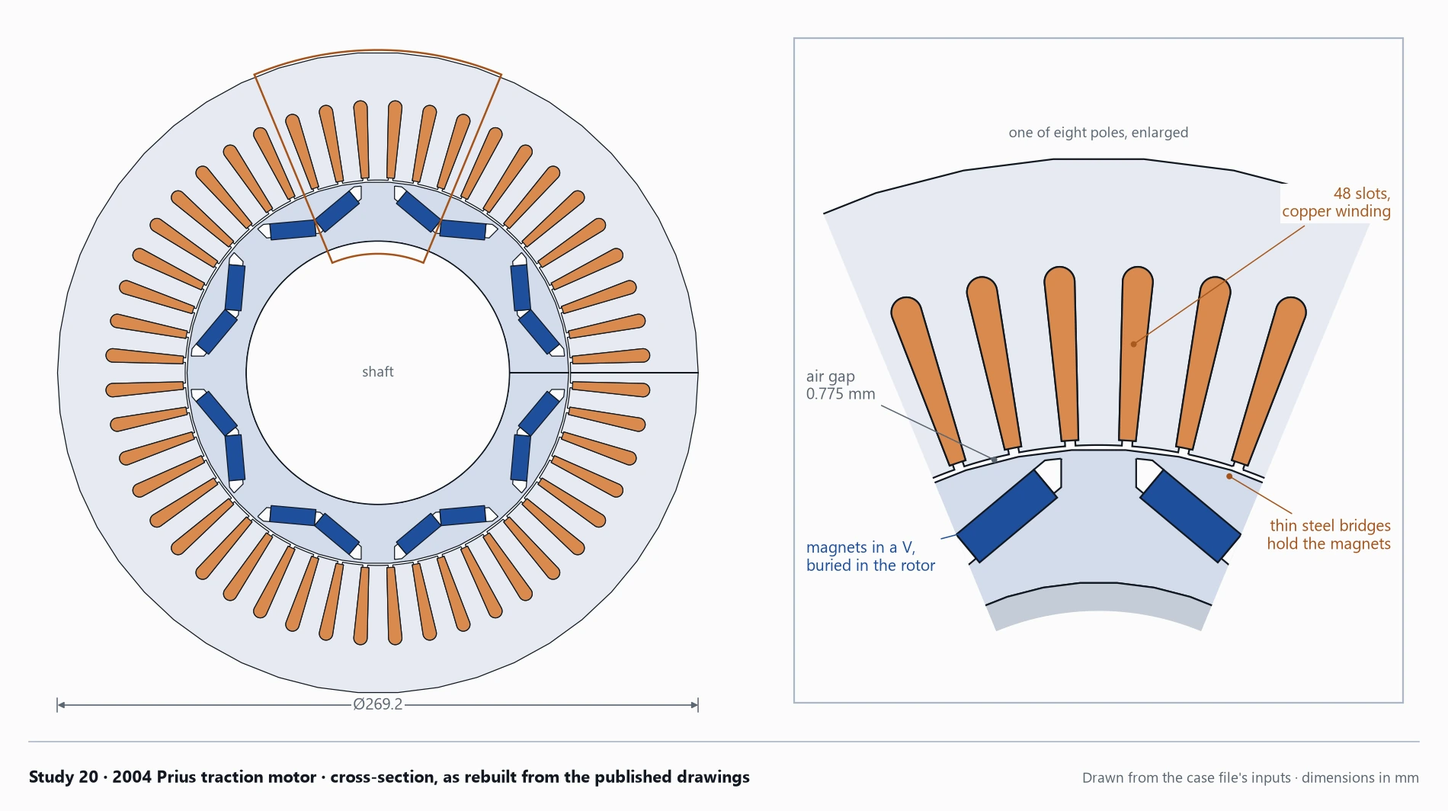
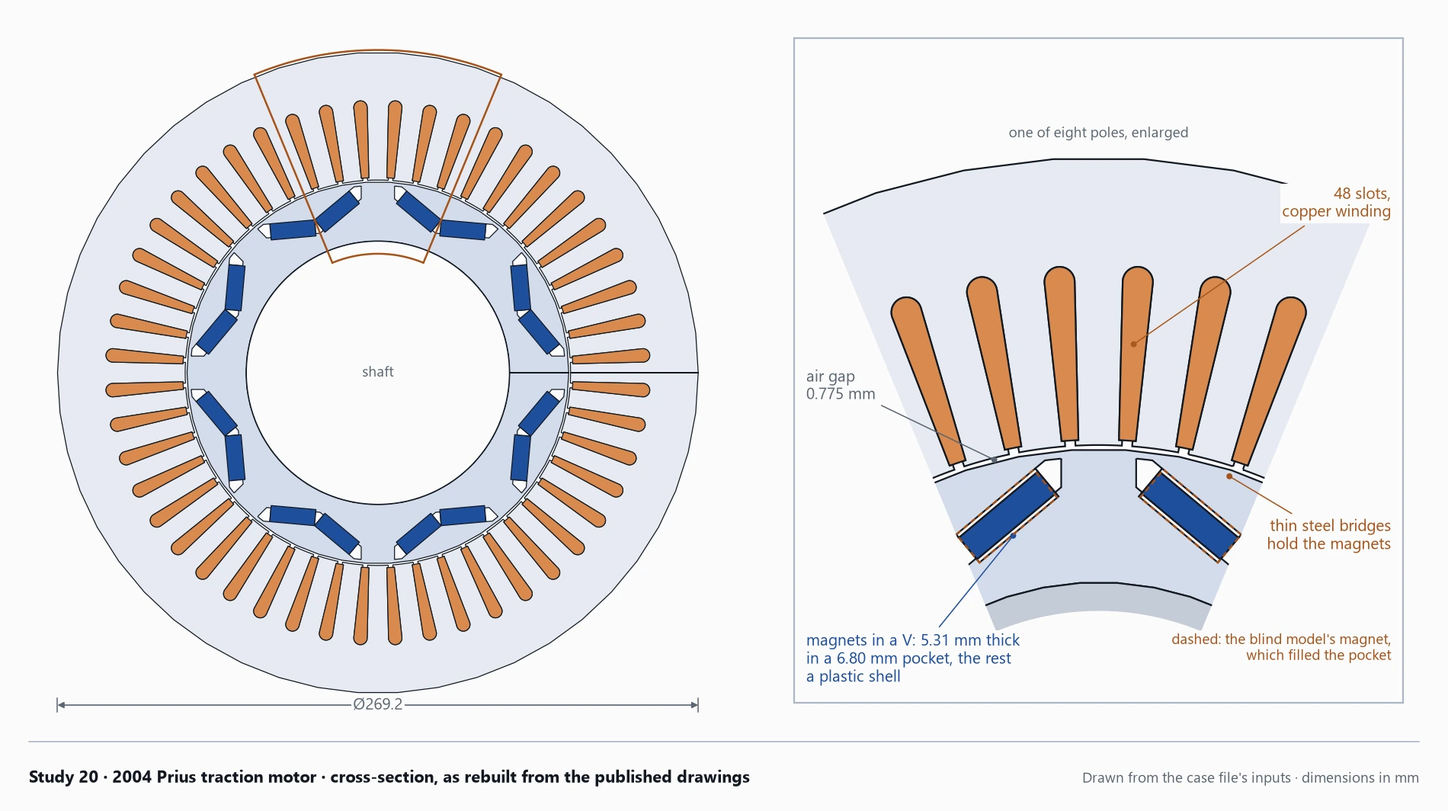
Drawings: motor pole shows the magnet as drawn (revision 4) with the blind model's dashed; pipe mesh note 160/320/640; new drawings for the step and the shaker test; motor efficiency caption and How I work lesson for revision 4; portfolio-site skill listed

diff --git a/docs/traction-motor.html b/docs/traction-motor.html
@@ -98,7 +98,7 @@
       <p><strong>Then I found most of the cause in the drawings.</strong> Every model so far had filled the magnet pocket with magnet, because the library's template does. The laboratory's design report gives the magnet as 5.31 mm thick in a 6.80 mm pocket, and its teardown report shows why: the magnets are moulded into a plastic shell that fits the pocket. Modelled that way, with the published magnet material and nothing calibrated, the back-EMF comes out 7.8 % low instead of 23.5 % high. So the blind miss was mostly geometry, and the "weaker magnets" calibration had been absorbing it. The rest of the model is being rerun on the drawn magnet, one effect at a time.</p>
       <p><strong>The blind verdicts stay on the record.</strong> The calibrated model is a revision, compared again, not a replacement for the test it failed. One finding holds either way and is confirmed by the laboratory's own measurement: with the inverter not switching at top speed, the motor generates far more than its 500 V supply (850 V measured). The rotor stress at overspeed doesn't depend on the flux.</p>
     </div>
-    <figure><div class="plate"><img src="v2/fig_motor_efficiency.svg" alt="Predicted motor efficiency over speed and torque, peaking at 97.4 percent near 2,500 rpm and 80 newton metres" loading="lazy"></div><figcaption><b>The efficiency map, as predicted.</b> One cell per computed point, with the torque limit at the 212 A design current. It peaks at 97.4 %. Against the laboratory's 393 measured points it reads about 5 points high (4.5 after calibration), so treat it as the prediction that was tested, not as a result.</figcaption></figure>
+    <figure><div class="plate"><img src="v2/fig_motor_efficiency.svg" alt="Predicted motor efficiency over speed and torque, peaking at 97.4 percent near 2,500 rpm and 80 newton metres" loading="lazy"></div><figcaption><b>The efficiency map, as predicted.</b> One cell per computed point, with the torque limit at the 212 A design current. It peaks at 97.4 %. Against the laboratory's 393 measured points it reads about 5 points high (4.05 after calibration and with the measured winding temperatures), so treat it as the prediction that was tested, not as a result.</figcaption></figure>
     <h2 id="why-it-matters">Why It Matters</h2>
     <p>Every other study on this site checks a model against theory: an exact solution, a handbook value, a conservation law. That shows the equations were solved correctly. It doesn't show the model matches a real machine, with real materials, tolerances and everything the model leaves out. Only measured data can do that, and it's what a client ultimately cares about.</p>
     <p>Comparing with test data has its own trap. If you can see the answer while you build the model, it's very easy to adjust things until they agree, and the agreement then proves nothing. So this study was done blind. The machine was rebuilt from the published drawings, every prediction was written into a case file and committed before its run, the limits were agreed first, and the measurements stayed unopened until the whole model was finished.</p>
@@ -141,7 +141,7 @@
       <dt>Rotor stress</dt><dd>CalculiX, plane stress, half a pole at 7,200 rpm, with the magnets' centrifugal load on their seats. Stress is linearised across the 1.45 mm bridges, with elements down to 0.05 mm.</dd>
       <dt>Thermal</dt><dd>A lumped network of the yoke, teeth, windings, end windings, housing and rotor, fed with the losses at its own temperatures and solved to a steady state. Limits: 180 °C at the winding hotspot and 150 °C at the magnets, with a 65 °C water jacket. The cooling and the limits are assumed, because they aren't published.</dd>
     </dl>
-    <figure class="drawing"><div class="plate"><img src="v2/dwg_motor.webp" alt="Cross-section of the motor, with one pole enlarged to show the magnets, slots and air gap" loading="lazy"></div><figcaption>The motor's cross-section, drawn from the machine definition the study uses: eight poles of magnets in the rotor and 48 slots of copper in the stator.</figcaption></figure>
+    <figure class="drawing"><div class="plate"><img src="v2/dwg_motor.webp" alt="Cross-section of the motor, with one pole enlarged to show the magnets in their pockets, the slots and the air gap; the blind model&#x27;s larger magnets dashed" loading="lazy"></div><figcaption>The motor's cross-section, drawn from the study's machine definitions: eight poles of magnets in the rotor and 48 slots of copper in the stator. The enlarged pole shows the magnet at its drawn size, centred in a plastic shell that fills the rest of the pocket. Dashed: the blind model's magnet, which filled the pocket. That one difference explains most of the blind miss.</figcaption></figure>
     <details class="record"><summary>The case file: recorded assumptions, limits and inputs</summary><div class="record-body"><p>This is the study's own record, written before the run and saved with it, in the shorthand of the case file.</p><p class="case"><a class="ext" href="https://github.com/CptGrumpus/engineering-agent-lab/blob/main/cases/motor_prius_ornl_oc_mesh_r3.toml">cases/motor_prius_ornl_oc_mesh_r3.toml ↗</a></p><p>2004 Toyota Prius traction motor rebuilt from ORNL/TM-2005/33 Fig. 21 (radii, air gap 0.775 mm, slot, pocket thickness and position), ORNL/TM-2004/120 (bridge) and ORNL/TM-2004/137 Fig. 14 (magnet B-H line), laminations M330-35A (stand-in grade), at open circuit, 1000 rpm; Pyleecan + FEMM 4.2 magnetostatics over one electrical period (48 steps), mesh fineness 2 / 4 / 8; back-EMF and the uncontrolled-generator voltage at top speed.</p><h3>Assumptions, and How Each Is Checked</h3><ul><li>2D magnetostatics (FEMM), no end effects: the stack (83.8 mm) is long against the air gap (0.775 mm), but end-winding leakage and axial fringing are not modelled.</li><li>Stator, rotor, slot and pocket thickness from ORNL/TM-2005/33 Fig. 21; bridge 1.45 mm from ORNL/TM-2004/120; magnet Br 1.243 T and recoil permeability 1.129 from ORNL/TM-2004/137 Fig. 14 (temperature not stated, taken as 20 C); magnet width and winding still Pyleecan&#x27;s.</li><li>Laminations M330-35A, a stand-in: ORNL gives the thickness (0.36 mm) but not the grade. B-H curve from Tata Steel&#x27;s typical data (50 Hz) up to 1.8 T, extrapolated above (saturation polarization 2.0 T).</li><li>Magnet temperature 20 C; Br falls about 0.1 %/K, so a hot motor has a lower back-EMF (stated, not modelled here).</li><li>Maximum speed 6000 rpm, the commonly published rating for this motor; ORNL&#x27;s design report tabulates ratings only up to base speed.</li></ul><h3>Limits</h3><ul><li>No test data in this case: the ORNL comparison is a separate, blind step.</li><li>The magnet fills the pocket thickness (HoleM50); TM-2004/120 gives a thinner magnet (5.31 mm), not modelled.</li><li>Line-to-line peak from the phase flux linkages with their harmonics; the inverter&#x27;s own clamping is not modelled.</li><li>The real lamination grade is unknown; the bracketing grades (M250-35A, a high-strength rotor grade) are separate cases.</li></ul><h3>Inputs</h3><div class="table-wrap"><table><thead><tr><th>Input</th><th>Value</th></tr></thead><tbody><tr><td>machine</td><td>Toyota_Prius_ORNL.json</td></tr><tr><td>speed_rpm</td><td>1000</td></tr><tr><td>id_A</td><td>0</td></tr><tr><td>iq_A</td><td>0</td></tr><tr><td>mesh_fineness</td><td>1</td></tr><tr><td>steps_per_period</td><td>48</td></tr><tr><td>angle_points</td><td>2048</td></tr><tr><td>max_speed_rpm</td><td>6000</td></tr><tr><td>bus_voltage_V</td><td>500</td></tr><tr><td>rated_torque_Nm</td><td>400</td></tr></tbody></table></div><p class="case"><a class="ext" href="https://github.com/CptGrumpus/engineering-agent-lab/blob/main/cases/motor_prius_efficiency_r1.toml">cases/motor_prius_efficiency_r1.toml ↗</a></p><p>2004 Toyota Prius traction motor (our machine, laminations M330-35A), motor-only efficiency map from the verified dq look-up tables (25 A tables merged with low-q-current tables at 6.25 A): 500-6000 rpm, 10-400 N m, least copper + iron loss under the 500 V bus voltage limit and the current limit; cold (all 20 C) and hot (windings 100 C, magnets 80 C) scenarios.</p><h3>Assumptions, and How Each Is Checked</h3><ul><li>Motor-only efficiency: copper (DC resistance, end connections included) and iron loss; no mechanical, magnet eddy-current, AC copper or inverter loss (user&#x27;s framing, 2026-11-22).</li><li>Voltage limit Vdc / sqrt 6 phase rms (linear modulation of a 500 V bus); the resistive drop is included, inductive coupling to the inverter is not.</li><li>Current limit 212 A rms for the design (25 A/mm^2 on 76.4 mm^2 of bare copper per slot, a stated assumption) and 300 A for the map&#x27;s edge.</li><li>Iron loss from the table&#x27;s coefficients, P = A f + B f^2 + C f^1.5 with f the electrical frequency, at each grid point.</li><li>Copper 1.72e-8 ohm m at 20 C, alpha 0.00393 /K; one parallel path; end connection 120.6 mm per side (geometry estimate, see header).</li></ul><h3>Limits</h3><ul><li>No test data in this case: the ORNL comparison is a separate, blind step at the end of the study.</li><li>The tables are 2D magnetostatic at 1000 rpm; the iron loss is scaled to speed by the fitted coefficients, not recomputed per speed.</li><li>Steady thermal corners only (cold and hot); no thermal model links temperature to the operating point yet.</li></ul><h3>Inputs</h3><div class="table-wrap"><table><thead><tr><th>Input</th><th>Value</th></tr></thead><tbody><tr><td>lut_run</td><td>20261122-102002_motor_prius_lut_cold,20261122-133946_motor_prius_lut_cold_lowiq</td></tr><tr><td>magnet_temperature_C</td><td>20</td></tr><tr><td>winding_temperature_C</td><td>20</td></tr><tr><td>series_turns_per_phase</td><td>72</td></tr><tr><td>turn_copper_area_mm2</td><td>8.492</td></tr><tr><td>stack_length_m</td><td>0.08382</td></tr><tr><td>end_connection_length_m</td><td>0.1206</td></tr><tr><td>copper_resistivity_20C_ohm_m</td><td>1.72e-08</td></tr><tr><td>copper_alpha_per_K</td><td>0.00393</td></tr><tr><td>bus_voltage_V</td><td>500</td></tr><tr><td>current_limit_design_A</td><td>212</td></tr><tr><td>current_limit_map_A</td><td>300</td></tr><tr><td>speed_min_rpm</td><td>500</td></tr><tr><td>speed_max_rpm</td><td>6000</td></tr><tr><td>speed_step_rpm</td><td>250</td></tr><tr><td>torque_min_Nm</td><td>10</td></tr><tr><td>torque_max_Nm</td><td>400</td></tr><tr><td>torque_step_Nm</td><td>10</td></tr><tr><td>rated_power_kW</td><td>50</td></tr><tr><td>rated_torque_Nm</td><td>400</td></tr><tr><td>ref_back_emf_V</td><td>111.006</td></tr><tr><td>ref_mtpa_100A_Nm</td><td>251.6</td></tr><tr><td>ref_mtpa_200A_Nm</td><td>456.9</td></tr></tbody></table></div></div></details>
     <h2 id="how-it-works">How It Works</h2>
     <p><strong>The machine.</strong> Pyleecan, the open-source motor design library, ships a model of this motor. Rebuilt from the laboratory's own drawing, the real slot turns out to be 145 mm² and not 218, and the air gap 0.775 mm and not 0.750. So the study uses its own machine definition, and the figure below shows the difference.</p>

diff --git a/docs/how-i-work.html b/docs/how-i-work.html
@@ -79,7 +79,7 @@
       </div>
     </div>
     <h3 class="sub">Where the Agent Fits</h3>
-    <p class="sub-lede">I use Claude Code, guided by seven skills I wrote and tested. The skills set the order of the work and which checks have to pass. The agent writes and runs the code.</p>
+    <p class="sub-lede">I use Claude Code, guided by eight skills I wrote and tested. The skills set the order of the work and which checks have to pass. The agent writes and runs the code.</p>
     <div class="skills">
       <div class="skill"><code>frame-requirements</code><b>Requirements First</b><p>Pins down the decision, the metrics, the input ranges, the assumptions and how to check them, the tolerances and my predictions, all before anything runs.</p></div>
       <div class="skill"><code>build-model</code><b>Model Preparation</b><p>Covers file layout, choosing the checks, a quick smoke test and diagnosing failures, plus notes on solver traps I found the hard way.</p></div>
@@ -87,6 +87,7 @@
       <div class="skill"><code>verify-against-reference</code><b>Verification</b><p>Compares against independent references, conservation and reaction balance, runs mesh convergence with the Grid Convergence Index, and cross-checks between tools.</p></div>
       <div class="skill"><code>requirements-report</code><b>Review Report</b><p>Links each requirement to its result, checks and saved files, and ends with "pending human review".</p></div>
       <div class="skill"><code>render-results</code><b>Result Renders</b><p>Renders solver output in Blender, and only keeps an image if it passes a geometry check, a pixel-by-pixel legend colour check and a check that the lit image reads as the right band.</p></div>
+      <div class="skill"><code>portfolio-site</code><b>This Site</b><p>Rules for publishing results here: read the newest handoff before writing a study's status, how a finished study gets its section, chart and drawing, title case, plain wording, and the build checks that must pass.</p></div>
       <div class="skill"><code>publication-figures</code><b>Charts and Drawings</b><p>Redraws a run's working plots as clean vector charts and dimensioned drawings, with every number read from the saved run, the limits from its case file and pass or fail from its verification record.</p></div>
     </div>
     <ul class="rules" aria-label="Rules the agent works under">
@@ -135,7 +136,7 @@
     <div class="findings">
       <article class="finding"><span class="label">Bracket optimisation · design automation</span><h3>Two Answers That Failed Their Own Checks</h3><p>The optimiser's first pick read 94 MPa, but its mesh study put it at 101.7 MPa once the uncertainty was added: a peak in a fillet needs far more margin than a smooth bending stress. The second pick failed because the mesh study wasn't refining the fillet at all. The design on the page passed only once the peak itself was refined.</p><a href="bracket-optimisation.html">Read the study</a></article>
       <article class="finding"><span class="label">Pressure vessel · design code</span><h3>A Pass That Depended on Where One Line Was Drawn</h3><p>Read on lines at the weld toes, the nozzle passed its design-code limit with 0.9 % to spare, and I recommended a wall on that basis. Measuring the other usual placement, a line through the inner corner, gave 25 % more stress on the same converged model. The verdict flipped and the recommendation was withdrawn.</p><a href="pressure-vessel-nozzle.html">Read the study</a></article>
-      <article class="finding"><span class="label">Traction motor · blind test</span><h3>A Model That Missed Its Blind Test</h3><p>I predicted a production motor's back-EMF, torque and efficiency before looking at the laboratory's measurements. All three missed their limits, with one cause behind most of it: about 24 % too much magnet flux. Calibrating on a routine test afterwards turned a passing design check into a fail. The blind predictions stay on record as they were made.</p><a href="traction-motor.html">Read the study</a></article>
+      <article class="finding"><span class="label">Traction motor · blind test</span><h3>A Model That Missed Its Blind Test</h3><p>I predicted a production motor's back-EMF, torque and efficiency before looking at the laboratory's measurements. All three missed their limits, with one cause behind most of it: about 24 % too much magnet flux. Calibrating on a routine test afterwards turned a passing design check into a fail. Then a part-by-part check against the drawings found the real cause: the library's template had filled the magnet pocket, where the drawn magnet is thinner and sits in a plastic shell. Modelled as drawn, with nothing calibrated, most of the miss goes away. The blind predictions stay on record as they were made.</p><a href="traction-motor.html">Read the study</a></article>
       <article class="finding"><span class="label">Strap · stress concentration</span><h3>A Model That Converged Neatly to the Wrong Answer</h3><p>The mesh study looked textbook, but it settled 2 % away from the handbook value. Running a case with a known exact answer through the same pipeline showed the problem was in how the solver's elements behaved, which no amount of mesh refinement would have revealed.</p><a href="aluminium-strap.html#strap">Read the study</a></article>
       <article class="finding"><span class="label">Coolant channel · CFD</span><h3>A Simplified Inlet That Flipped the Answer</h3><p>The simple model said the channel passed. It never converged at the sharp inlet corner, though, and once I modelled the inlet properly the channel failed its pressure budget.</p><a href="coolant-channel.html">Read the study</a></article>
       <article class="finding"><span class="label">Quarter car · vehicle dynamics</span><h3>A Wheel That Left the Road</h3><p>Every numerical check passed, but the tire was leaving the ground, which the simple model can't represent, so I held the verdict back. When I built a tire model that can lift off, it showed the simple one had overstated the peak body acceleration by up to 29 %.</p><a href="quarter-car.html">Read the study</a></article>

diff --git a/site/pages/how.html b/site/pages/how.html
@@ -25,7 +25,7 @@
       </div>
     </div>
     <h3 class="sub">Where the agent fits</h3>
-    <p class="sub-lede">I use Claude Code, guided by seven skills I wrote and tested. The skills set the order of the work and which checks have to pass. The agent writes and runs the code.</p>
+    <p class="sub-lede">I use Claude Code, guided by eight skills I wrote and tested. The skills set the order of the work and which checks have to pass. The agent writes and runs the code.</p>
     <div class="skills">
       <div class="skill"><code>frame-requirements</code><b>Requirements first</b><p>Pins down the decision, the metrics, the input ranges, the assumptions and how to check them, the tolerances and my predictions, all before anything runs.</p></div>
       <div class="skill"><code>build-model</code><b>Model preparation</b><p>Covers file layout, choosing the checks, a quick smoke test and diagnosing failures, plus notes on solver traps I found the hard way.</p></div>
@@ -33,6 +33,7 @@
       <div class="skill"><code>verify-against-reference</code><b>Verification</b><p>Compares against independent references, conservation and reaction balance, runs mesh convergence with the Grid Convergence Index, and cross-checks between tools.</p></div>
       <div class="skill"><code>requirements-report</code><b>Review report</b><p>Links each requirement to its result, checks and saved files, and ends with "pending human review".</p></div>
       <div class="skill"><code>render-results</code><b>Result renders</b><p>Renders solver output in Blender, and only keeps an image if it passes a geometry check, a pixel-by-pixel legend colour check and a check that the lit image reads as the right band.</p></div>
+      <div class="skill"><code>portfolio-site</code><b>This site</b><p>Rules for publishing results here: read the newest handoff before writing a study's status, how a finished study gets its section, chart and drawing, title case, plain wording, and the build checks that must pass.</p></div>
       <div class="skill"><code>publication-figures</code><b>Charts and drawings</b><p>Redraws a run's working plots as clean vector charts and dimensioned drawings, with every number read from the saved run, the limits from its case file and pass or fail from its verification record.</p></div>
     </div>
     <ul class="rules" aria-label="Rules the agent works under">
@@ -57,7 +58,7 @@
     <div class="findings">
       <article class="finding"><span class="label">Bracket optimisation · design automation</span><h3>Two answers that failed their own checks</h3><p>The optimiser's first pick read 94 MPa, but its mesh study put it at 101.7 MPa once the uncertainty was added: a peak in a fillet needs far more margin than a smooth bending stress. The second pick failed because the mesh study wasn't refining the fillet at all. The design on the page passed only once the peak itself was refined.</p><a href="#bracket_opt">Read the study</a></article>
       <article class="finding"><span class="label">Pressure vessel · design code</span><h3>A pass that depended on where one line was drawn</h3><p>Read on lines at the weld toes, the nozzle passed its design-code limit with 0.9 % to spare, and I recommended a wall on that basis. Measuring the other usual placement, a line through the inner corner, gave 25 % more stress on the same converged model. The verdict flipped and the recommendation was withdrawn.</p><a href="#pv_nozzle">Read the study</a></article>
-      <article class="finding"><span class="label">Traction motor · blind test</span><h3>A model that missed its blind test</h3><p>I predicted a production motor's back-EMF, torque and efficiency before looking at the laboratory's measurements. All three missed their limits, with one cause behind most of it: about 24 % too much magnet flux. Calibrating on a routine test afterwards turned a passing design check into a fail. The blind predictions stay on record as they were made.</p><a href="#motor">Read the study</a></article>
+      <article class="finding"><span class="label">Traction motor · blind test</span><h3>A model that missed its blind test</h3><p>I predicted a production motor's back-EMF, torque and efficiency before looking at the laboratory's measurements. All three missed their limits, with one cause behind most of it: about 24 % too much magnet flux. Calibrating on a routine test afterwards turned a passing design check into a fail. Then a part-by-part check against the drawings found the real cause: the library's template had filled the magnet pocket, where the drawn magnet is thinner and sits in a plastic shell. Modelled as drawn, with nothing calibrated, most of the miss goes away. The blind predictions stay on record as they were made.</p><a href="#motor">Read the study</a></article>
       <article class="finding"><span class="label">Strap · stress concentration</span><h3>A model that converged neatly to the wrong answer</h3><p>The mesh study looked textbook, but it settled 2 % away from the handbook value. Running a case with a known exact answer through the same pipeline showed the problem was in how the solver's elements behaved, which no amount of mesh refinement would have revealed.</p><a href="#strap">Read the study</a></article>
       <article class="finding"><span class="label">Coolant channel · CFD</span><h3>A simplified inlet that flipped the answer</h3><p>The simple model said the channel passed. It never converged at the sharp inlet corner, though, and once I modelled the inlet properly the channel failed its pressure budget.</p><a href="#cfd">Read the study</a></article>
       <article class="finding"><span class="label">Quarter car · vehicle dynamics</span><h3>A wheel that left the road</h3><p>Every numerical check passed, but the tire was leaving the ground, which the simple model can't represent, so I held the verdict back. When I built a tire model that can lift off, it showed the simple one had overstated the peak body acceleration by up to 29 %.</p><a href="#suspension">Read the study</a></article>

diff --git a/docs/bracket-modal.html b/docs/bracket-modal.html
@@ -157,6 +157,7 @@
       <dt>Mesh</dt><dd>Quadratic tetrahedra of 3.1, 1.95 and 1.22 mm for the mesh study.</dd>
       <dt>Analysis</dt><dd>30 modes from CalculiX, up to about 53 kHz, then the random response summed over the modes in Python.</dd>
     </dl>
+    <figure class="drawing"><div class="plate"><img src="v2/dwg_random_vib.webp" alt="Side view of the arm clamped to a shaker table, with the three shaking directions and the flat input spectrum" loading="lazy"></div><figcaption>The test: the arm clamped to a shaker table and shaken on one axis at a time. The stress is read on the surface near the clamp and extrapolated to it; the tip clearance is drawn six times larger so it can be seen.</figcaption></figure>
     <details class="record"><summary>The case file: recorded assumptions, limits and inputs</summary><div class="record-body"><p>This is the study's own record, written before the run and saved with it, in the shorthand of the case file.</p><p class="case"><a class="ext" href="https://github.com/CptGrumpus/engineering-agent-lab/blob/main/cases/bracket_random_mesh.toml">cases/bracket_random_mesh.toml ↗</a></p><p>Study C: study 4&#x27;s steel bracket arm (150 x 25 x 7 mm, clamped) under a flat 0.04 g^2/Hz base PSD from 20 to 2000 Hz, 1 h per axis, 2 % damping; CalculiX modes and modal stresses, modal superposition in Python; 3 sigma root stress (hot-spot), fatigue damage (Dirlik, EN 1993-1-9 detail 160) and tip displacement; quadratic-tetrahedron mesh 3.125 / 1.95 / 1.22 mm.</p><h4>Assumptions, and How Each Is Checked</h4><ul><li>Linear elastic steel (E 210 GPa, nu 0.3, 7850 kg/m^3); stationary Gaussian base acceleration, one axis at a time; zero mean stress.</li><li>Rigid clamp over the whole root face (as study 4); 2 % modal damping on every mode (synthetic).</li><li>Root stress by surface extrapolation from 0.4 t and 1.0 t (IIW hot-spot rule) applied to each mode; the clamp-corner nodal value is singular and not used.</li><li>Fatigue on the root&#x27;s axial stress (sigma_xx), the dominant component; Dirlik&#x27;s range distribution; Miner&#x27;s sum over the three axes.</li></ul><h4>Limits</h4><ul><li>Synthetic excitation, damping, clearance and S-N detail; no attached component, no bolt-joint flexibility (it would lower the first mode, the main risk, as in study 4).</li><li>No fretting at the clamp edge (the S-N detail is for plain rolled plate).</li></ul><h4>Inputs</h4><div class="table-wrap"><table><thead><tr><th>Input</th><th>Value</th></tr></thead><tbody><tr><td>length_mm</td><td>150</td></tr><tr><td>width_mm</td><td>25</td></tr><tr><td>thickness_mm</td><td>7</td></tr><tr><td>youngs_modulus_MPa</td><td>210000</td></tr><tr><td>poisson_ratio</td><td>0.3</td></tr><tr><td>density_t_per_mm3</td><td>7.85e-09</td></tr><tr><td>element_size_mm</td><td>1.95312</td></tr><tr><td>n_modes</td><td>30</td></tr><tr><td>damping_ratio</td><td>0.02</td></tr><tr><td>psd_g2_per_Hz</td><td>0.04</td></tr><tr><td>f_low_Hz</td><td>20</td></tr><tr><td>f_high_Hz</td><td>2000</td></tr><tr><td>duration_per_axis_s</td><td>3600</td></tr><tr><td>yield_MPa</td><td>355</td></tr><tr><td>detail_category_MPa</td><td>160</td></tr><tr><td>clearance_mm</td><td>1</td></tr></tbody></table></div></div></details>
     <h3 id="random_vib-how-it-works">How It Works</h3>
     <p>CalculiX finds the arm's modes, with their stresses and how strongly each one is driven by shaking the base. The random response is then a sum over the modes, one axis at a time: each mode responds to the base acceleration like a damped spring and mass, and the stresses add with their phases. From the response spectra come the rms values, the rms of the full 3D stress state, and the spectral moments the fatigue methods need.</p>

diff --git a/docs/turbulent-pipe-friction.html b/docs/turbulent-pipe-friction.html
@@ -160,6 +160,7 @@
       <dt>Mesh</dt><dd>About 36,000, 71,000 and 142,000 cells for the mesh study.</dd>
       <dt>What's compared</dt><dd>Reattachment length, skin friction on the floor and the pressure recovery, against the published tables for the parallel-wall case.</dd>
     </dl>
+    <figure class="drawing"><div class="plate"><img src="v2/dwg_step.webp" alt="The channel in side view: the step, the inlet duct, the separation bubble behind the step and the reattachment point, with the stretch where skin friction is scored" loading="lazy"></div><figcaption>The channel as modelled, heights to scale and the length cut short. The flow separates at the step, turns back under the dashed line and reattaches at the dot. Skin friction is scored from 10 to 30 step heights; the pressure recovery from 4 step heights before the step to 30 after it.</figcaption></figure>
     <details class="record"><summary>The case file: recorded assumptions, limits and inputs</summary><div class="record-body"><p>This is the study's own record, written before the run and saved with it, in the shorthand of the case file.</p><p class="case"><a class="ext" href="https://github.com/CptGrumpus/engineering-agent-lab/blob/main/cases/step_mesh.toml">cases/step_mesh.toml ↗</a></p><p>Backward-facing step (Driver and Seegmiller, ERCOFTAC 030, parallel walls), 2D RANS k-omega SST, walls resolved; mesh study, levels 0.7 / 1 / 1.41 (about 35k / 71k / 142k cells).</p><h4>Assumptions, and How Each Is Checked</h4><ul><li>2D, steady, incompressible RANS (M 0.128); k-omega SST (openfoam.org v14), walls resolved (y+ under 1 on the floors and the top wall).</li><li>Geometry from the case description: step H 12.7 mm, inlet duct 8 H (expansion 1.125), parallel top wall; Re_H 37500 at U_ref 44.2 m/s (nu 1.497e-5 m^2/s).</li><li>Inflow: uniform velocity 1.153 m upstream of the step (as the experiment&#x27;s trip, 1.0 m), turbulence intensity 1 % and eddy-viscosity ratio 10; both walls grow their own boundary layers; matched on the step-side momentum thickness and edge velocity at x = -4 H.</li><li>Outlet at 50 H, fixed pressure; Cp referred to the floor at x = -4 H.</li></ul><h4>Limits</h4><ul><li>2D: the tunnel&#x27;s span is 12 H, so the side walls&#x27; boundary layers and any spanwise flow are not modelled.</li><li>One turbulence model; its boundary layer is fuller than the measured one at the same momentum thickness (delta99 15 against 19 mm).</li><li>Steady RANS: the shear layer&#x27;s unsteadiness is not resolved.</li></ul><h4>Inputs</h4><div class="table-wrap"><table><thead><tr><th>Input</th><th>Value</th></tr></thead><tbody><tr><td>step_height_m</td><td>0.0127</td></tr><tr><td>inlet_height_ratio</td><td>8</td></tr><tr><td>reynolds_number_h</td><td>37500</td></tr><tr><td>inlet_velocity_m_per_s</td><td>41.95</td></tr><tr><td>reference_velocity_m_per_s</td><td>44.2</td></tr><tr><td>upstream_length_m</td><td>1.153</td></tr><tr><td>downstream_length_over_h</td><td>50</td></tr><tr><td>inlet_turbulence_intensity</td><td>0.01</td></tr><tr><td>inlet_viscosity_ratio</td><td>10</td></tr><tr><td>mesh_level</td><td>1</td></tr><tr><td>turbulence_model</td><td>kOmegaSST</td></tr></tbody></table></div></div></details>
     <h3 id="step-how-i-checked-it">How I Checked It</h3>
     <ul class="proof">

diff --git a/site/studies/motor.html b/site/studies/motor.html
@@ -15,7 +15,7 @@
       <p><strong>Then I found most of the cause in the drawings.</strong> Every model so far had filled the magnet pocket with magnet, because the library's template does. The laboratory's design report gives the magnet as 5.31 mm thick in a 6.80 mm pocket, and its teardown report shows why: the magnets are moulded into a plastic shell that fits the pocket. Modelled that way, with the published magnet material and nothing calibrated, the back-EMF comes out 7.8 % low instead of 23.5 % high. So the blind miss was mostly geometry, and the "weaker magnets" calibration had been absorbing it. The rest of the model is being rerun on the drawn magnet, one effect at a time.</p>
       <p><strong>The blind verdicts stay on the record.</strong> The calibrated model is a revision, compared again, not a replacement for the test it failed. One finding holds either way and is confirmed by the laboratory's own measurement: with the inverter not switching at top speed, the motor generates far more than its 500 V supply (850 V measured). The rotor stress at overspeed doesn't depend on the flux.</p>
     </div>
-    <figure><div class="plate"><img src="v2/fig_motor_efficiency.svg" alt="Predicted motor efficiency over speed and torque, peaking at 97.4 percent near 2,500 rpm and 80 newton metres" loading="lazy"></div><figcaption><b>The efficiency map, as predicted.</b> One cell per computed point, with the torque limit at the 212 A design current. It peaks at 97.4 %. Against the laboratory's 393 measured points it reads about 5 points high (4.5 after calibration), so treat it as the prediction that was tested, not as a result.</figcaption></figure>
+    <figure><div class="plate"><img src="v2/fig_motor_efficiency.svg" alt="Predicted motor efficiency over speed and torque, peaking at 97.4 percent near 2,500 rpm and 80 newton metres" loading="lazy"></div><figcaption><b>The efficiency map, as predicted.</b> One cell per computed point, with the torque limit at the 212 A design current. It peaks at 97.4 %. Against the laboratory's 393 measured points it reads about 5 points high (4.05 after calibration and with the measured winding temperatures), so treat it as the prediction that was tested, not as a result.</figcaption></figure>
     <h3>Why it matters</h3>
     <p>Every other study on this site checks a model against theory: an exact solution, a handbook value, a conservation law. That shows the equations were solved correctly. It doesn't show the model matches a real machine, with real materials, tolerances and everything the model leaves out. Only measured data can do that, and it's what a client ultimately cares about.</p>
     <p>Comparing with test data has its own trap. If you can see the answer while you build the model, it's very easy to adjust things until they agree, and the agreement then proves nothing. So this study was done blind. The machine was rebuilt from the published drawings, every prediction was written into a case file and committed before its run, the limits were agreed first, and the measurements stayed unopened until the whole model was finished.</p>

diff --git a/scripts/make_drawings.py b/scripts/make_drawings.py
@@ -591,7 +591,7 @@ def cold_plate():
 
 
 def pipe():
-    p = case("pipe_rans_mesh_r2")
+    p = case("pipe_rans_mesh_r3")
     R = p["diameter_m"] * 500
     fig, ax = new(9, (-70, 200), (-66, 66))
     ax.add_patch(Circle((0, 0), R, fc="#dbe7f6", ec=INK, lw=1.3, zorder=2))
@@ -612,7 +612,7 @@ def pipe():
     ax.plot([x1, x1], [-hh, hh], color=INK, lw=2.2, zorder=5, solid_capstyle="butt")
     text(ax, x1 + 3, 0, "wall", ha="left", fs=7, color=INK)
     text(ax, x0 - 3, 0, "axis", ha="right", fs=7)
-    text(ax, (x0 + x1) / 2, -hh - 12, "cells graded towards the wall: 80, 160 and 320 across the radius,\nthe first one inside the thin viscous layer", fs=7)
+    text(ax, (x0 + x1) / 2, -hh - 12, "cells graded towards the wall: 160, 320 and 640 across the radius,\nthe first one inside the thin viscous layer", fs=7)
     text(ax, (x0 + x1) / 2, hh + 9, "front and back faces joined, so the flow repeats", fs=7, color=ACC)
     finish(fig, "pipe", "Study 19 · turbulent pipe flow · the periodic wedge and its mesh", "dimensions in mm, the wedge drawn wider than 5°")
 
@@ -671,13 +671,15 @@ def motor():
         print("skip motor: run scripts/export_motor_geometry.py in the Pyleecan environment first")
         return
     d = json.loads(src.read_text())
+    src4 = REPO / "build" / "drawings" / "motor_geometry_rev4.json"
+    d4 = json.loads(src4.read_text()) if src4.exists() else None     # magnet as drawn, centred (revision 4)
     Re = d["Rext"] * 1000
     fig, ax = new(9.5, (-Re - 12, Re * 3.25), (-Re - 12, Re + 12))
     col = {"Stator-0_Lamination": FILL, "Rotor-0_Lamination": "#d3dceb", "Winding": "#d98a4e", "HoleMag": ACC, "HoleVoid": PLATE,
            "Shaft": "#c4cbd6"}
 
-    def draw(ox, oy, k, clip=None):
-        for s in d["surfaces"]:
+    def draw(ox, oy, k, clip=None, geo=None):
+        for s in (geo or d)["surfaces"]:
             pts = np.array(s["pts"]) * 1000 * k + [ox, oy]
             kind = next((v for key, v in col.items() if key in s["label"]), FILL)
             z = 2 if "Lamination" in s["label"] or "Shaft" in s["label"] else 3
@@ -696,12 +698,24 @@ def motor():
     P = lambda r, a: (cx + k * r * np.cos(np.radians(a)), cy + k * r * np.sin(np.radians(a)))  # noqa: E731
     th = np.linspace(67.5, 112.5, 30)
     wedge = Polygon([P(r0, a) for a in th] + [P(Re + 1, a) for a in th[::-1]], closed=True, transform=ax.transData)
-    draw(cx, cy, k, clip=wedge)
+    draw(cx, cy, k, clip=wedge, geo=d4)
+    if d4 is not None:                         # the blind model's magnet, which filled the pocket, dashed
+        for s in d["surfaces"]:
+            if "HoleMag" in s["label"]:
+                pts = np.array(s["pts"]) * 1000 * k + [cx, cy]
+                patch = Polygon(pts, closed=True, fc="none", ec=HOT, lw=0.9, ls=(0, (3, 2)), zorder=7)
+                ax.add_patch(patch)
+                patch.set_clip_path(wedge)
     ax.add_patch(Polygon([(r0 * np.cos(np.radians(a)), r0 * np.sin(np.radians(a))) for a in th] +
                          [((Re + 1) * np.cos(np.radians(a)), (Re + 1) * np.sin(np.radians(a))) for a in th[::-1]],
                          closed=True, fc="none", ec=HOT, lw=0.9, zorder=6))
     top = P(Re + 1, 90)[1]
-    note(ax, P(69, 101), (f0 + 5, P(60, 90)[1]), "magnets in a V,\nburied in the rotor", color=ACC, ha="left")
+    if d4 is not None:
+        note(ax, P(66, 104), (f0 + 5, P(46, 90)[1]), "magnets in a V: 5.31 mm thick\nin a 6.80 mm pocket, the rest\na plastic shell", color=ACC, ha="left",
+             va="top")
+        text(ax, f1 - 5, P(r0, 90)[1] - 9, "dashed: the blind model's magnet,\nwhich filled the pocket", fs=7, color=HOT, ha="right", va="top")
+    else:
+        note(ax, P(69, 101), (f0 + 5, P(60, 90)[1]), "magnets in a V,\nburied in the rotor", color=ACC, ha="left")
     note(ax, P(100, 86.25), (f1 - 5, top - 14), "48 slots,\ncopper winding", color="#a8581f", ha="right", va="top")
     note(ax, P(79.0, 72), (f1 - 5, P(64, 90)[1]), "thin steel bridges\nhold the magnets", color=HOT, ha="right")
     note(ax, P(80.6, 104), (f0 + 5, P(92, 90)[1]), "air gap\n0.775 mm", ha="left")
@@ -710,8 +724,94 @@ def motor():
     finish(fig, "motor", "Study 20 · 2004 Prius traction motor · cross-section, as rebuilt from the published drawings")
 
 
+# ---------------------------------------------------------------------------------------- study 19 part 2, the step
+
+def step():
+    p = case("step_mesh")
+    H = p["step_height_m"] * 1000
+    hin = p["inlet_height_ratio"]                  # inlet duct height, in step heights
+    xr = 6.40                                      # the finest mesh's reattachment length (comparison.json)
+    x0, x1 = -7.0, 33.0
+    fig, ax = new(9.5, (x0 - 1.5, x1 + 1.5), (-3.2, hin + 2.6))
+    # walls: top wall, upstream floor at the step lip (y = 1), the step face, the downstream floor (y = 0)
+    ax.fill_between([x0, 0], 1, -0.6, color=FILL, lw=0, zorder=1)
+    ax.fill_between([0, x1], 0, -0.6, color=FILL, lw=0, zorder=1)
+    ax.fill_between([x0, x1], 1 + hin, 1 + hin + 0.6, color=FILL, lw=0, zorder=1)
+    ax.plot([x0, 0, 0, x1], [1, 1, 0, 0], color=INK, lw=1.3, zorder=3)
+    ax.plot([x0, x1], [1 + hin, 1 + hin], color=INK, lw=1.3, zorder=3)
+    for xb in (x0, x1):                            # the channel carries on beyond the drawing
+        ax.plot([xb, xb], [0 if xb > 0 else 1, 1 + hin], color=CUT, lw=0.8, ls=(0, (2, 2)), zorder=2)
+    # the flow and the separation bubble
+    for y in (3.0, 5.5, 7.5):
+        force(ax, (x0 + 0.6, y), (x0 + 3.2, y), "", color=ACC, lw=1.2)
+    text(ax, x0 + 0.6, 1 + hin - 0.7, "air, 44.2 m/s", fs=7, ha="left", color=ACC, box=False)
+    bx = np.linspace(0, xr, 60)
+    ax.plot(bx, 1.0 * np.sqrt(np.clip(1 - (bx / xr) ** 2, 0, 1)) * (1 - 0.15 * bx / xr), color=ACC, lw=1.0, ls=(0, (4, 2)), zorder=4)
+    text(ax, xr * 0.42, 0.38, "flow turns back here", fs=6.5, color=ACC, box=False)
+    ax.plot([xr], [0], marker="o", ms=4.5, color=HOT, zorder=6)
+    note(ax, (xr, 0), (xr + 2.5, 2.4), f"flow reattaches: {xr:.2f} step heights\n(measured 6.26)", color=HOT, ha="left")
+    # what is scored
+    ax.plot([10, 30], [-1.75, -1.75], color=HOT, lw=2.2, solid_capstyle="butt", zorder=5)
+    text(ax, 20, -2.15, "skin friction scored from 10 to 30 step heights", fs=7, color=HOT, va="top", box=False)
+    ax.plot([-4, -4], [1, 0.55], color=DIMC, lw=0.8, zorder=5)
+    ax.plot([30, 30], [0, -0.45], color=DIMC, lw=0.8, zorder=5)
+    text(ax, -4, 1.35, "pressure from −4 H …", fs=6.5, va="bottom", box=False)
+    text(ax, 30, 0.35, "… to 30 H", fs=6.5, va="bottom", box=False)
+    dim(ax, (0, 0), (0, 1), 1.0, f"step {H:g}", outside=True)
+    dim(ax, (x0 + 4.5, 1), (x0 + 4.5, 1 + hin), -0.9, f"{hin:g} H")
+    for xt in (0, 10, 20, 30):
+        ax.plot([xt, xt], [-0.6, -0.8], color=DIMC, lw=0.6)
+        text(ax, xt, -0.95, f"{xt} H", fs=6.5, va="top", box=False)
+    text(ax, (x0 + x1) / 2, 1 + hin + 1.4, "inlet 1.15 m upstream of the step · outlet 50 step heights downstream, both off the drawing",
+         fs=6.5, box=False)
+    finish(fig, "step", "Study 19, part 2 · backward-facing step · the channel, with what is compared",
+           "dimensions in mm and step heights (H); heights drawn to scale, the channel cut short")
+
+
+# ---------------------------------------------------------------------------------------- study 21, random vibration
+
+def random_vib():
+    p = case("bracket_random_mesh")
+    L, w, t_ = p["length_mm"], p["width_mm"], p["thickness_mm"]
+    fig, ax = new(9.5, (-60, 215), (-78, 42))
+    # the clamp block on the shaker table, and the arm in side view
+    rect(ax, -34, -14, 0, 24, hatch="////")
+    rect(ax, -50, -24, 60, -14, fc="#d3dceb")
+    text(ax, 5, -19, "shaker table", fs=7, color=INK, box=False)
+    rect(ax, 0, 0, L, t_)
+    text(ax, 62, t_ + 5, f"steel arm, {L:g} × {w:g} × {t_:g} (side view)", fs=7.5, color=INK, box=False, va="bottom")
+    dim(ax, (0, 0), (L, 0), -10)
+    dim(ax, (L, 0), (L, t_), -12, f"{t_:g}", outside=True)
+    # the tip clearance
+    ax.plot([L - 14, L], [t_ + 6, t_ + 6], color=HOT, lw=1.0, ls=(0, (3, 2)), zorder=5)
+    text(ax, L - 16, t_ + 6, "tip may move 1 mm (3-sigma,\ndrawn 6× larger)", fs=7, color=HOT, ha="right")
+    # hot-spot read points beside the clamp
+    note(ax, (2, t_), (40, 30), "stress read at 0.4 and 1.0 × the thickness\nfrom the clamp and extrapolated to it", ha="left")
+    # the input: shaken on each axis in turn
+    ox, oy = -40, -56
+    force(ax, (ox, oy), (ox, oy + 20), "", color=ACC)
+    force(ax, (ox, oy), (ox + 22, oy), "", color=ACC)
+    ax.add_patch(Circle((ox, oy), 2.2, fc=PLATE, ec=ACC, lw=1.2, zorder=6))
+    ax.plot([ox], [oy], marker="o", ms=1.6, color=ACC, zorder=7)
+    text(ax, ox + 3, oy + 19, "z, flapwise", fs=7.5, color=ACC, ha="left", box=False, bold=True)
+    text(ax, ox + 25, oy, "x, along the arm", fs=7.5, color=ACC, ha="left", box=False, bold=True)
+    text(ax, ox + 3, oy - 5, "y, sideways (out of the page)", fs=7.5, color=ACC, ha="left", va="top", box=False, bold=True)
+    text(ax, -50, -72, "shaken on one axis at a time, one hour each", fs=7, ha="left", va="center", box=False)
+    # the input spectrum, inset
+    gx0, gx1, gy0, gy1 = 105, 205, -70, -26
+    rect(ax, gx0, gy0, gx1, gy1, fc=PLATE, ec=CUT, lw=0.8)
+    fx = lambda f: gx0 + 8 + (gx1 - gx0 - 16) * (np.log10(f) - 1) / 2.5          # noqa: E731
+    ax.plot([fx(20), fx(20), fx(2000), fx(2000)], [gy0 + 6, gy0 + 26, gy0 + 26, gy0 + 6], color=ACC, lw=1.4, zorder=4)
+    ax.plot([gx0 + 6, gx1 - 6], [gy0 + 6, gy0 + 6], color=DIMC, lw=0.6)
+    text(ax, (gx0 + gx1) / 2, gy0 + 30, "input: flat 0.04 g²/Hz, about 8.9 g rms", fs=7, color=ACC, va="bottom", box=False)
+    text(ax, fx(20), gy0 + 3, "20 Hz", fs=6.5, va="top", box=False)
+    text(ax, fx(2000), gy0 + 3, "2,000 Hz", fs=6.5, va="top", box=False)
+    finish(fig, "random_vib", "Study 21 · bracket arm on a shaker table · the test and what is measured",
+           "dimensions in mm, the clamp and table schematic")
+
+
 ALL = {f.__name__: f for f in (fea, cantilever_opt, strap, modal, strut, contact, bolted_joint, pv_nozzle, bracket_opt, cad,
-                               cfd, thermal, heat, cold_plate, pipe, suspension, baseline, motor)}
+                               cfd, thermal, heat, cold_plate, pipe, suspension, baseline, motor, step, random_vib)}
 
 if __name__ == "__main__":
     for name in sys.argv[1:] or ALL:

diff --git a/site/build_v2.py b/site/build_v2.py
@@ -297,7 +297,9 @@ DRAWINGS = {
     "pipe": ("The pipe's cross-section with a thin wedge marked, and the wedge enlarged with its mesh", "Left: the pipe and the thin wedge that's modelled. Right: the wedge, with its cells graded towards the wall."),
     "suspension": ("Schematic of the body on a spring and damper, on a wheel, on a tire, crossing a bump", "The quarter-car model: one corner of the car as two masses, a spring, a damper and a tire."),
     "baseline": ("Schematic of a mass on a spring and a damper with a force applied", "The system: one mass on a spring and a damper, pushed by a sudden force."),
-    "motor": ("Cross-section of the motor, with one pole enlarged to show the magnets, slots and air gap", "The motor's cross-section, drawn from the machine definition the study uses: eight poles of magnets in the rotor and 48 slots of copper in the stator."),
+    "motor": ("Cross-section of the motor, with one pole enlarged to show the magnets in their pockets, the slots and the air gap; the blind model's larger magnets dashed", "The motor's cross-section, drawn from the study's machine definitions: eight poles of magnets in the rotor and 48 slots of copper in the stator. The enlarged pole shows the magnet at its drawn size, centred in a plastic shell that fills the rest of the pocket. Dashed: the blind model's magnet, which filled the pocket. That one difference explains most of the blind miss."),
+    "step": ("The channel in side view: the step, the inlet duct, the separation bubble behind the step and the reattachment point, with the stretch where skin friction is scored", "The channel as modelled, heights to scale and the length cut short. The flow separates at the step, turns back under the dashed line and reattaches at the dot. Skin friction is scored from 10 to 30 step heights; the pressure recovery from 4 step heights before the step to 30 after it."),
+    "random_vib": ("Side view of the arm clamped to a shaker table, with the three shaking directions and the flat input spectrum", "The test: the arm clamped to a shaker table and shaken on one axis at a time. The stress is read on the surface near the clamp and extrapolated to it; the tip clearance is drawn six times larger so it can be seen."),
 }
 HIGHLIGHTS = [("bracket_opt", "Optimised bracket"), ("pv_nozzle", "Pressure vessel"), ("bolted_joint", "Bolted joint slip"),
               ("strut", "Strut buckling"), ("cold_plate", "Cold plate")]

diff --git a/scripts/export_motor_geometry.py b/scripts/export_motor_geometry.py
@@ -1,11 +1,11 @@
 """Run in the Pyleecan environment: writes the motor cross-section (every surface as a labelled polygon, in metres)
 for scripts/make_drawings.py.
 
-    PYTHONUTF8=1 ~/.venvs/pyleecan/Scripts/python.exe scripts/export_motor_geometry.py build/drawings/motor_geometry.json
+    PYTHONUTF8=1 ~/.venvs/pyleecan/Scripts/python.exe scripts/export_motor_geometry.py build/drawings/motor_geometry.json [machine.json]
 """
 import json, sys
 from pyleecan.Functions.load import load
-m = load("models/motor/Toyota_Prius_ORNL.json")
+m = load(sys.argv[2] if len(sys.argv) > 2 else "models/motor/Toyota_Prius_ORNL.json")
 out = []
 for surf in m.build_geometry(sym=1):
     pts = []
